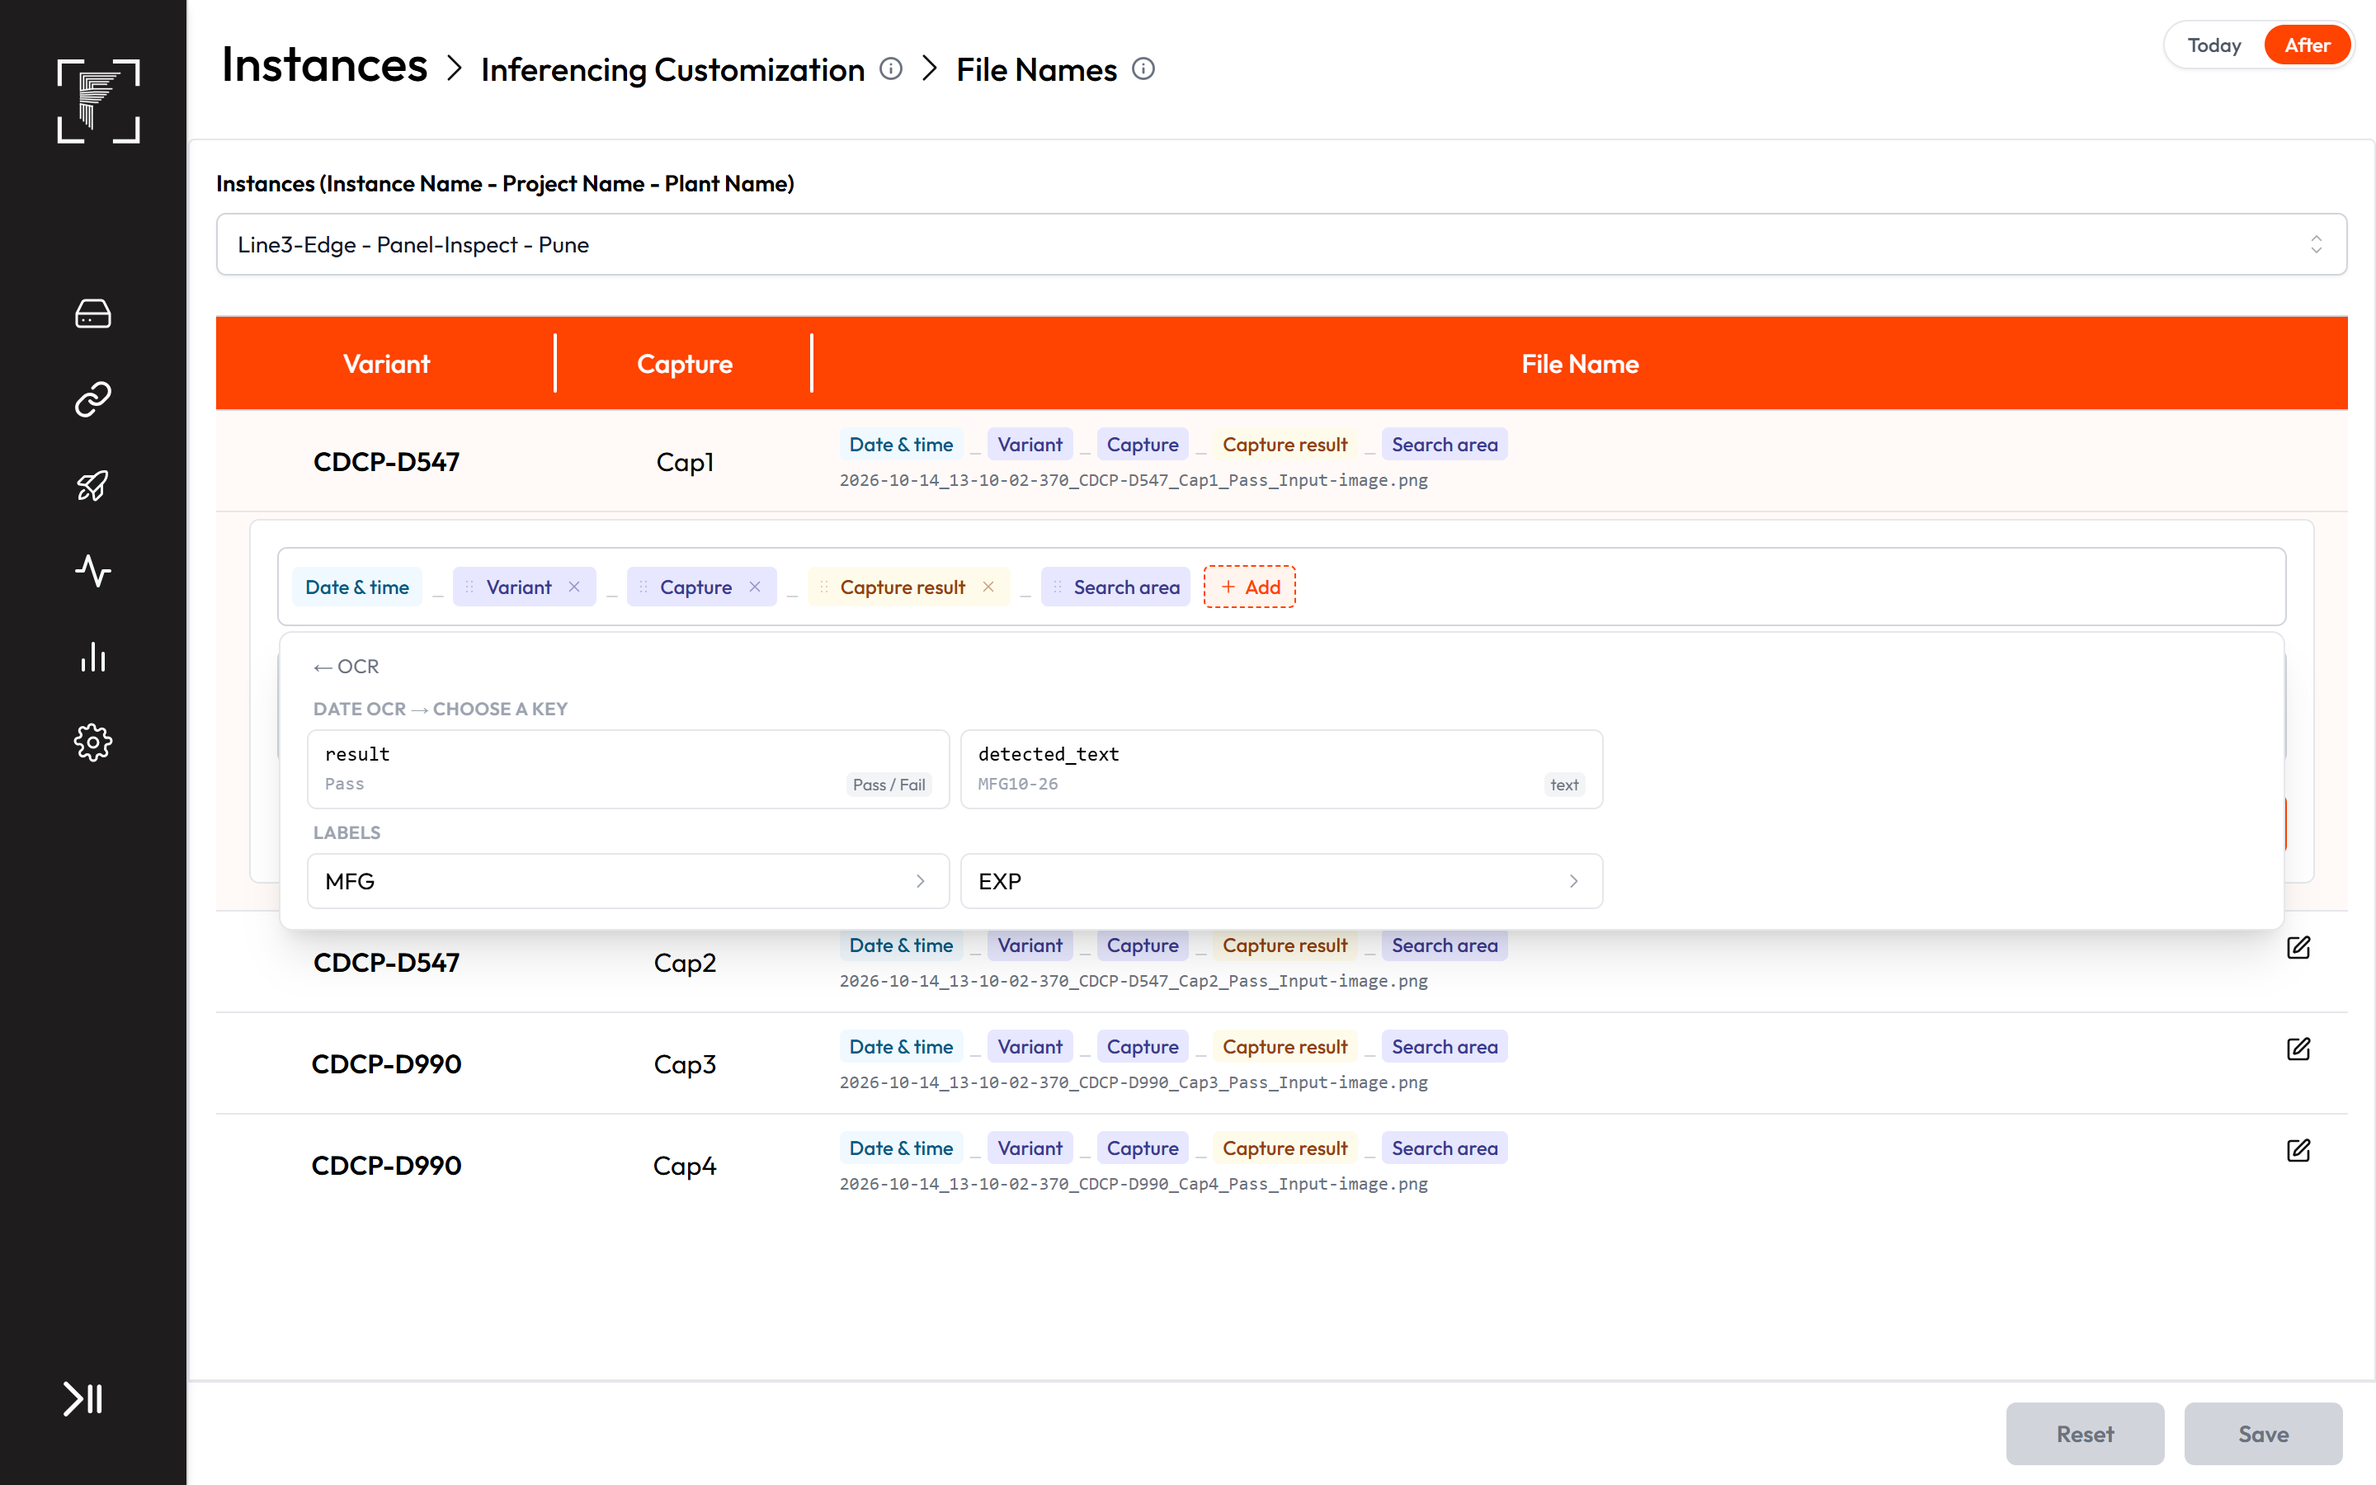
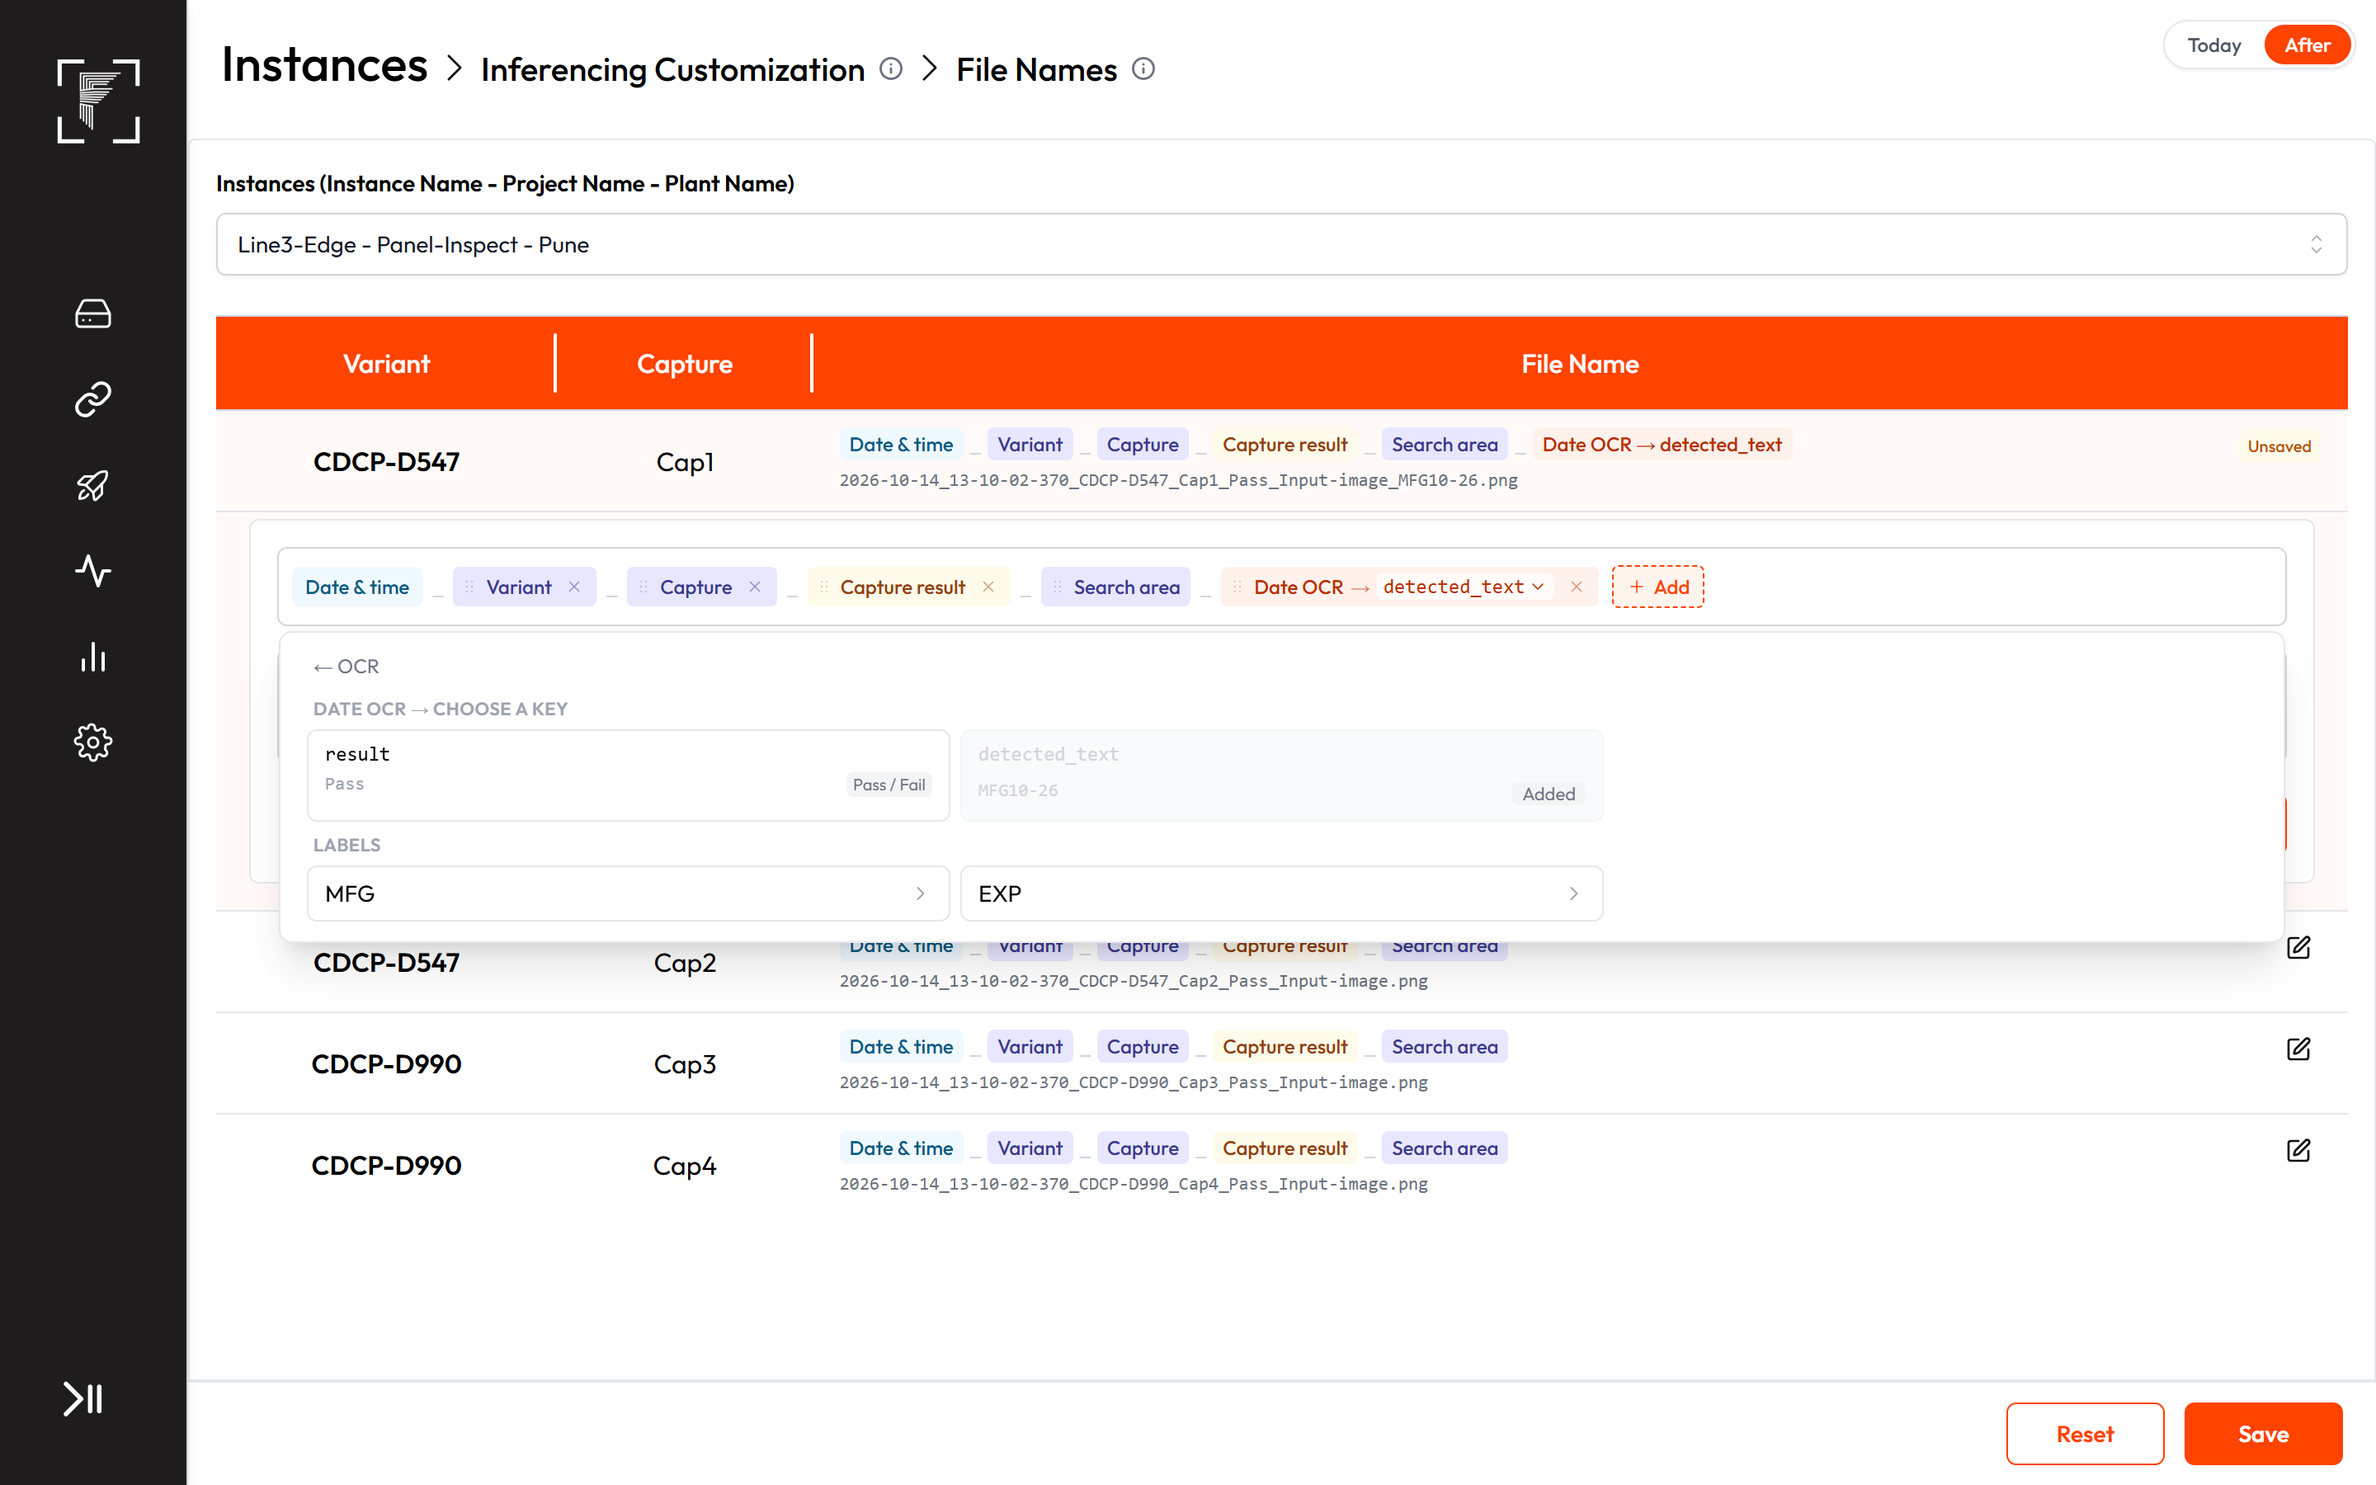
File Names PRD: several keys per module, only an added key is disabled
AC5.4 and AC5.13 changed, prototype key lists updated, status back to In review.

diff --git a/2026-10-30-file-names/prototype/file-names.html b/2026-10-30-file-names/prototype/file-names.html
@@ -796,7 +796,7 @@ const Tag = ({ children }) => <span className="shrink-0 rounded bg-gray-100 px-1
 const Chevron = () => <span className="text-gray-400"><Icon d={ICONS.chevron} size={14} /></span>;
 
 /** Keys of one module, as listed by the Edge key store (per image values only). */
-const KeyPicker = ({ mod, value, onPick, onBack, backLabel, cols = 'grid-cols-3', initialSub = null }) => {
+const KeyPicker = ({ mod, value, used = [], onPick, onBack, backLabel, cols = 'grid-cols-3', initialSub = null }) => {
   const keys = KEYS.filter((x) => x.modId === mod.id);
   const [sub, setSub] = useState(KEY_BY_ALIAS[value]?.sub || initialSub);
   const subs = [...new Set(keys.filter((x) => x.sub).map((x) => x.sub))];
@@ -808,16 +808,20 @@ const KeyPicker = ({ mod, value, onPick, onBack, backLabel, cols = 'grid-cols-3'
         <>
           <MenuHead>{sub ? `${mod.name} → ${sub} → choose a key` : `${mod.name} → choose a key`}</MenuHead>
           <div className={`grid gap-1.5 px-1 ${cols}`}>
-            {top.map((x) => (
-              <button key={x.alias} type="button" onClick={() => onPick(x)}
-                className={`flex min-w-0 flex-col items-start gap-0.5 rounded-md border px-2.5 py-1.5 text-left transition-colors hover:border-f-primary hover:bg-[#fffaf7] ${value === x.alias ? 'border-f-primary bg-[#fff8f5]' : 'border-gray-200'}`}>
-                <span className={`w-full truncate font-mono text-xs ${value === x.alias ? 'text-f-primary' : 'text-black'}`}>{x.keyName}</span>
-                <span className="flex w-full items-center gap-1.5">
-                  <span className="truncate font-mono text-[11px] text-gray-400">{x.sample}</span>
-                  <span className="ml-auto shrink-0 rounded bg-gray-100 px-1 text-[10px] text-gray-500">{DTYPE_LABEL[x.dtype]}</span>
-                </span>
-              </button>
-            ))}
+            {top.map((x) => {
+              // Only a key already in the name is blocked; the chip's own key stays highlighted
+              const added = x.alias !== value && used.includes(x.alias);
+              return (
+                <button key={x.alias} type="button" disabled={added} onClick={() => onPick(x)}
+                  className={`flex min-w-0 flex-col items-start gap-0.5 rounded-md border px-2.5 py-1.5 text-left transition-colors hover:border-f-primary hover:bg-[#fffaf7] disabled:border-gray-100 disabled:bg-gray-50 ${value === x.alias ? 'border-f-primary bg-[#fff8f5]' : 'border-gray-200'}`}>
+                  <span className={`w-full truncate font-mono text-xs ${added ? 'text-gray-300' : value === x.alias ? 'text-f-primary' : 'text-black'}`}>{x.keyName}</span>
+                  <span className="flex w-full items-center gap-1.5">
+                    <span className={`truncate font-mono text-[11px] ${added ? 'text-gray-300' : 'text-gray-400'}`}>{x.sample}</span>
+                    {added ? <span className="ml-auto"><Tag>Added</Tag></span> : <span className="ml-auto shrink-0 rounded bg-gray-100 px-1 text-[10px] text-gray-500">{DTYPE_LABEL[x.dtype]}</span>}
+                  </span>
+                </button>
+              );
+            })}
           </div>
         </>
       )}
@@ -858,7 +862,7 @@ const NameBuilder = ({ cap, parts, onChange, init = {} }) => {
   const setParts = (next) => onChange(next);
   const setPart = (i, patch) => setParts(parts.map((x, j) => (j === i ? { ...x, ...patch } : x)));
   const usedType = (t) => parts.some((p) => p.type === t);
-  const usedModule = (m) => parts.some((p) => p.type === 'key' && KEY_BY_ALIAS[p.key]?.modId === m.id);
+  const usedKeys = parts.filter((p) => p.type === 'key').map((p) => p.key);
   const add = (part) => { setParts([...parts, part]); setAdding(false); setAddStep(null); };
   const modules = cap.modules.filter(hasKeys);
   const types = MOD_TYPES.filter(([t]) => modules.some((m) => m.type === t));
@@ -925,7 +929,7 @@ const NameBuilder = ({ cap, parts, onChange, init = {} }) => {
               )}
               {keyMenu === i && mod && (
                 <div className="pop-in absolute left-0 top-full z-30 mt-1 w-[560px] max-w-[85vw] rounded-lg border border-gray-200 bg-white p-3 text-black shadow-xl" onMouseDown={(e) => e.stopPropagation()} draggable={false} onDragStart={(e) => e.preventDefault()}>
-                  <KeyPicker cols="grid-cols-2" mod={mod} value={p.key} onPick={(nk) => { setPart(i, { key: nk.alias }); setKeyMenu(null); }} />
+                  <KeyPicker cols="grid-cols-2" mod={mod} value={p.key} used={usedKeys} onPick={(nk) => { setPart(i, { key: nk.alias }); setKeyMenu(null); }} />
                 </div>
               )}
             </span>
@@ -945,7 +949,7 @@ const NameBuilder = ({ cap, parts, onChange, init = {} }) => {
           {adding && (
             <div className="pop-in absolute left-0 right-0 top-full z-30 mt-1 max-h-[75vh] overflow-y-auto rounded-lg border border-gray-200 bg-white p-3 shadow-xl">
               {addStep?.mod ? (
-                <KeyPicker mod={addStep.mod} onPick={(x) => add({ type: 'key', key: x.alias })}
+                <KeyPicker mod={addStep.mod} used={usedKeys} onPick={(x) => add({ type: 'key', key: x.alias })}
                   onBack={() => setAddStep({ type: addStep.type })} backLabel={TYPE_LABEL[addStep.type]} initialSub={addStep.sub || null} />
               ) : addStep ? (
                 <>
@@ -953,9 +957,9 @@ const NameBuilder = ({ cap, parts, onChange, init = {} }) => {
                   <MenuHead>{TYPE_LABEL[addStep.type]} → choose a module</MenuHead>
                   <div className="grid grid-cols-3 gap-1.5 px-1">
                     {modules.filter((m) => m.type === addStep.type).map((m) => (
-                      <button key={m.id} type="button" disabled={usedModule(m)} onClick={() => setAddStep({ type: m.type, mod: m })}
-                        className="flex items-center justify-between rounded-md border border-gray-200 px-2.5 py-1.5 text-left text-sm transition-colors hover:border-f-primary hover:bg-[#fffaf7] disabled:border-gray-100 disabled:bg-gray-50 disabled:text-gray-300">
-                        <span className="truncate">{m.name}</span>{usedModule(m) ? <Tag>Added</Tag> : <Chevron />}
+                      <button key={m.id} type="button" onClick={() => setAddStep({ type: m.type, mod: m })}
+                        className="flex items-center justify-between rounded-md border border-gray-200 px-2.5 py-1.5 text-left text-sm transition-colors hover:border-f-primary hover:bg-[#fffaf7]">
+                        <span className="truncate">{m.name}</span><Chevron />
                       </button>
                     ))}
                   </div>
@@ -1074,7 +1078,7 @@ const presetOf = (state, store) => {
   switch (state) {
     case 'edit': return { ...base, editing: c1.id };
     case 'add': return { ...base, editing: c1.id, init: { adding: true } };
-    case 'key': return { ...base, editing: c1.id, init: { adding: true, addStep: { type: 'OCR', mod: MODULE_BY_ID.m2 } } };
+    case 'key': return { ...base, editing: c1.id, names: withCap1({ type: 'key', key: key('m2', 'detected_text') }), init: { adding: true, addStep: { type: 'OCR', mod: MODULE_BY_ID.m2 } } };
     case 'preview-seal': return { ...base, editing: c1.id, names: withCap1({ type: 'key', key: key('m7', 'current_count', 'Screw') }), init: { image: 'Label' } };
     case 'custom-error': return { ...base, editing: c1.id, names: { ...names, [c1.id]: [...(names[c1.id] || DEFAULT_PARTS).filter((p) => p.type !== 'text'), { type: 'text', text: '.Line 3' }] } };
     case 'save-confirm': return anyChanged ? { ...base, modal: true } : {

diff --git a/2026-10-30-file-names/PRD-file-names.md b/2026-10-30-file-names/PRD-file-names.md
@@ -2,7 +2,7 @@
 
 **Prototype:** [Interactive workflow, Today vs After change](https://frinks-ai.github.io/frinks-PRDs/2026-10-30-file-names/prototype/)
 **Product:** Frinks Edge
-**Status:** Approved
+**Status:** In review
 **Date:** 30 October 2026
 **Owner:** Akshat Sharma
 **Related:** Image Storage PRD and epic FP-4008 (Cycle ID as in FP-4014); PRDs Image Enhancement module (FP-3870), Captures with no inspection modules, Configuration only instance
@@ -170,7 +170,7 @@ The parts this changes. Parts checked and not affected are listed at the very en
 - **AC5.1** Module types in Add lists only the types of this capture's modules that have values. Tracker, Masking, Edge Refinement and Orientator modules are never listed.
 - **AC5.2** Picking a type lists that type's modules in the capture. Picking a module lists its keys; for OCR labels, ODC classes, colours, beads and shapes, a level in between lists those first.
 - **AC5.3** Each key shows its name, a sample value and its type (text, number or true / false).
-- **AC5.4** A name can hold one key per module. A module already in the name is greyed with an "Added" tag.
+- **AC5.4** A name can hold several keys of one module. Only a key already in the name, for that label, class, colour, bead or shape, is greyed with an "Added" tag; the module and its other keys stay selectable.
 - **AC5.5** A module value chip reads "<module> → <key>" with a ▾. Clicking the key reopens that module's key list to pick another key.
 - **AC5.6** Running totals are not offered: pass_count, fail_count, count_till_now and every per-label, class, colour and bead pass or fail count.
 - **AC5.7** Values of the image itself are offered, including counts in the image such as current_count.
@@ -179,7 +179,7 @@ The parts this changes. Parts checked and not affected are listed at the very en
 - **AC5.10** A number value is written exactly as the inspection returns it.
 - **AC5.11** A search area's image carries a chosen module's value only when that module is below that search area. For a search area in another branch, that part and its "_" are left out.
 - **AC5.12** When a module has no value for an image (nothing read, shape not found), that part and its "_" are left out.
-- **AC5.13** When an instance update removes a module from a capture, that module's value is removed from the capture's name without a message, and Save is not blocked.
+- **AC5.13** When an instance update removes a module from a capture, that module's values are removed from the capture's name without a message, and Save is not blocked.
 
 ### US6 — Images are saved with the capture's name
 *As an engineer, I want every saved image named the way its capture is set, so that the files on disk match the File Names page.*
@@ -318,6 +318,7 @@ Repos checked (30 Oct 2026): vip-inference-python @ 613995d (29 Oct), frinksedge
 - 30 Oct 2026 — Draft written: US1–US11, Q1 (Akshat Sharma)
 - 30 Oct 2026 — Duplicate pass: AC2.2 reworded (Date & time not draggable; fixed parts' × in US3); AC3.1 trimmed ('not offered in Add' is AC2.3); AC3.3 trimmed ('can be moved' is AC2.2); AC4.1 trimmed (one Custom text is AC2.4); AC6.2 now says 'every chosen module value that the image has' (AC5.12); AC6.3 (removed): covered by AC6.1, AC6.2; AC11.2 trimmed (old images opening in Reports is AC9.4); AC11.5 trimmed (old names kept is AC11.2) (Akshat Sharma)
 - 30 Oct 2026 — Approved; prototype hosted and Prototype links live; Q1 (name length) stays open with the tech team (Akshat Sharma)
+- 6 Nov 2026 — AC5.4: one key per module changed to several keys of one module, with only a key already in the name greyed "Added"; AC5.13: a removed module's values (plural) are removed; prototype key lists updated; back to In review (Akshat Sharma)
 
 ## Checked, not affected
 - vision-access, vision-auto-annotation, vision-captures-cameras, vision-datasets-annotations, vision-instance-creation, vision-model-evaluation, vision-model-training, vision-projects, vision-recipe-tree, vision-training-sets-recommender, vision-variants: Edge-only change; module names and the module tree already arrive in the instance package, which does not change.

diff --git a/README.md b/README.md
@@ -6,7 +6,7 @@ with their screenshots. The Prototype column opens each PRD's live, clickable pr
 
 | Date | PRD | Prototype | Product | Status | Owner | Timeline |
 |---|---|---|---|---|---|---|
-| 30 Oct 2026 | [File Names](2026-10-30-file-names/PRD-file-names.md) | [Live prototype](https://frinks-ai.github.io/frinks-PRDs/2026-10-30-file-names/prototype/) | Frinks Edge | Approved | Akshat Sharma | — |
+| 6 Nov 2026 | [File Names](2026-10-30-file-names/PRD-file-names.md) | [Live prototype](https://frinks-ai.github.io/frinks-PRDs/2026-10-30-file-names/prototype/) | Frinks Edge | In review | Akshat Sharma | — |
 | 29 Oct 2026 | [Configuration only instance](2026-10-28-configuration-only-instance/PRD-configuration-only-instance.md) | [Live prototype](https://vbv-fr.github.io/configuration-only-instance-prototype/) | Vision + Edge | Approved | Deb | 10 Nov – 23 Nov 2026 |
 | 29 Oct 2026 | [Older Edge with newer instance packages](2026-10-29-older-edge-new-packages/PRD-older-edge-new-packages.md) | Pending | Vision + Edge | Draft (not started) | Tanay Deo | — |
 | 29 Oct 2026 | [Rename Matting to Edge Refinement](2026-10-27-edge-refinement-rename/PRD-edge-refinement-rename.md) | None (no screen changes) | Vision + Edge | Approved | Swayam (SDE POC) | SPRINT 26-15 (running sprint) |
